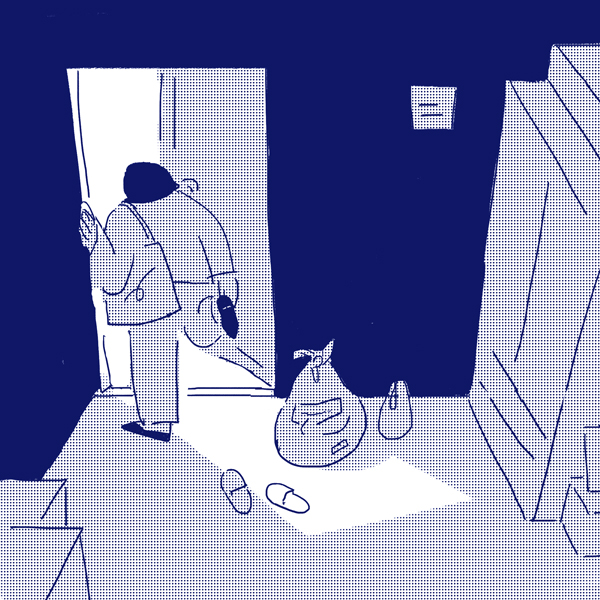
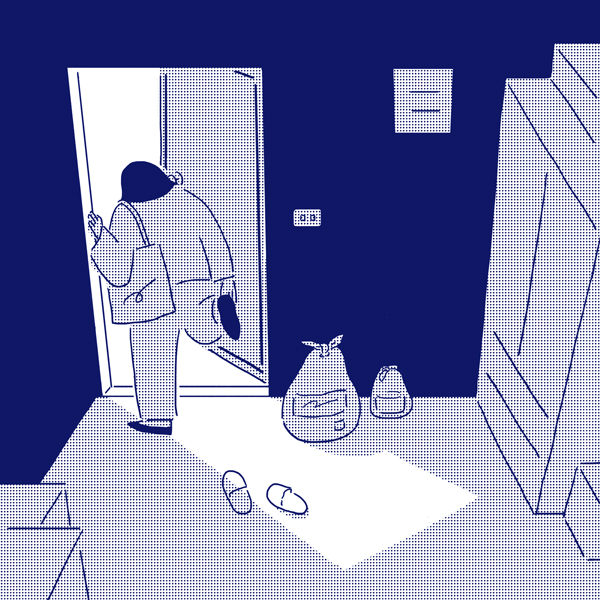
lock 1-3

diff --git a/products/lock.html b/products/lock.html
@@ -87,16 +87,16 @@
     <section>
         <div class="container">
             <div class="graphic-novel">
-                <img src="../img/img_products_lock_panel_1.png" alt="" />
+                <img src="../img/img_products_lock_panel_1.png" alt="你出門上班去" />
             </div>
             <div class="graphic-novel">
-                <img src="../img/img_products_lock_panel_2.png" alt="" />
+                <img src="../img/img_products_lock_panel_2.png" alt="終於下班回到租屋處，發現門口的兩包垃圾不見了" />
             </div>
             <div class="graphic-novel">
-                <img src="../img/img_products_lock_panel_3.png" alt="" />
+                <img src="../img/img_products_lock_panel_3.png" alt="你傳訊息給室友說謝謝他幫忙倒垃圾" />
             </div>
             <div class="graphic-novel">
-                <img src="../img/img_products_lock_panel_4.png" alt="" />
+                <img src="../img/img_products_lock_panel_4.png" alt="室友回覆說他並沒有倒啊，你才意識到是房東幹得好事" />
             </div>
         </div>
 

diff --git a/css/style.css b/css/style.css
@@ -664,9 +664,6 @@ article {
   width: 50%;
   margin-bottom: 20px;
 }
-.graphic-novel img{
-  background-color: #534BAE;
-}
 .title {
   color: #fff;
   font-size: 36px;
